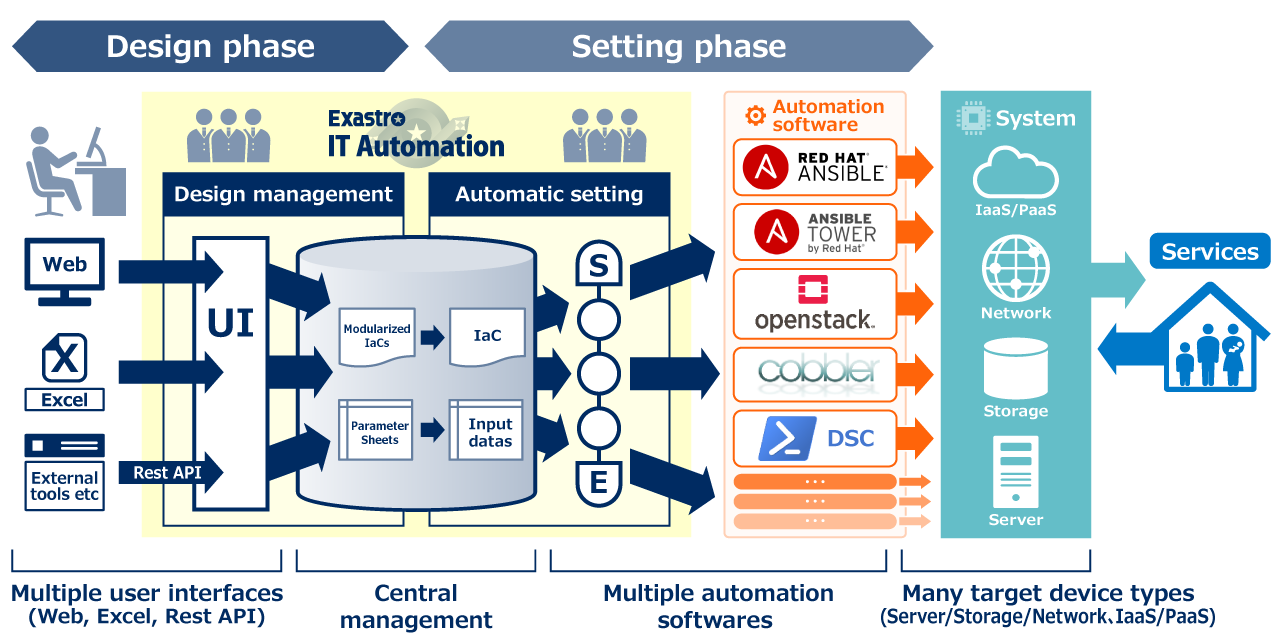
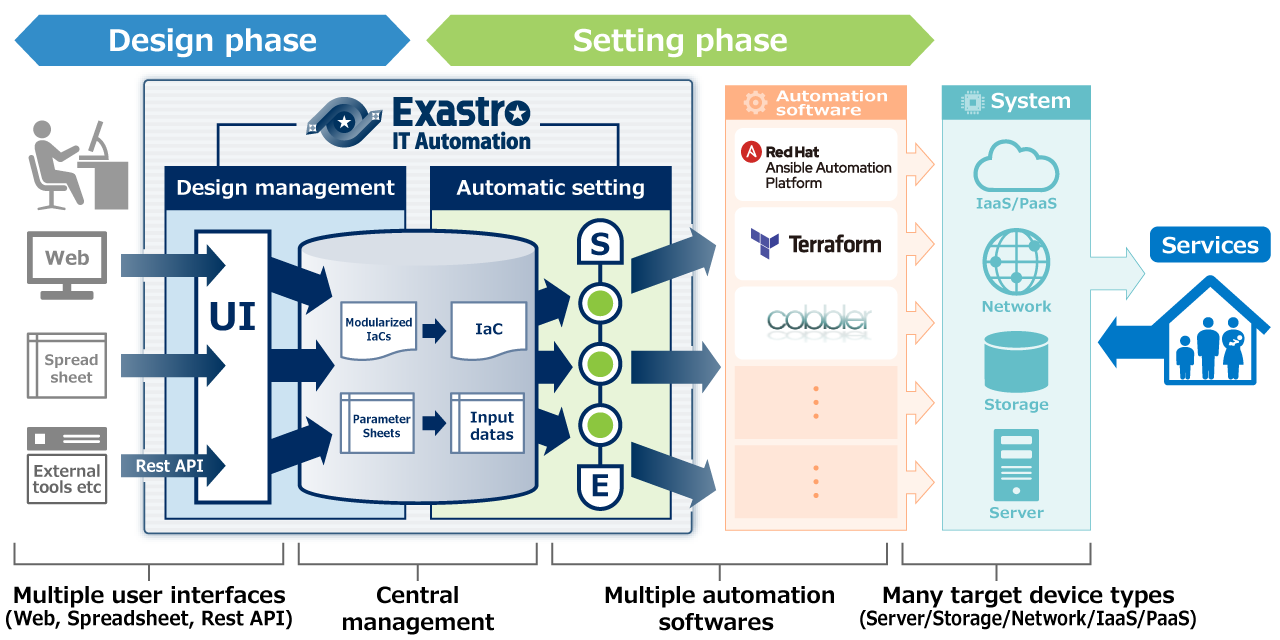
Update overview.

diff --git a/overview.html b/overview.html
@@ -172,8 +172,8 @@ Overview</h1>
     <h3 id="feature1" class="toggleHeading">Multiple user interfaces &amp; Role Base Access Control</h3>
     
     <div class="toggleText">
-      <div class="rightImage image25"><img src="./asset/img/en_system_management.png" alt="3 types of Interfaces (Web, Excel, and Rest API)"></div>
-      <p>User operations can be executed by 3 types of Interfaces (Web, Excel, and Rest API). ITA also records operation information from any Interface such as “who did it, when, what?”</p>
+      <div class="rightImage image25"><img src="./asset/img/en_system_management.png" alt="3 types of Interfaces (Web, Spreadsheet, and Rest API)"></div>
+      <p>User operations can be executed by 3 types of Interfaces (Web, Spreadsheet, and Rest API). ITA also records operation information from any Interface such as “who did it, when, what?”</p>
       <hr>
       <div class="rightImage"><dl class="image"><dt>Example of RBAC</dt><dd><span class="loupe touch"><img src="../it-automation-docs/asset/img/rbac_image_en.png" alt="Example of RBAC"></span></dd><dd class="note">*User 1 has both "Can perform maintenance" and "View only" permissions for Menu C but "Can perform maintenance" has higher priority.</dd></dl></div>
       <p>With role-based access control (RBAC), user can define roles such as developer, operator, users, and control what each role can do such as view only, update, execute.</p>

diff --git a/overview_ja.html b/overview_ja.html
@@ -173,7 +173,7 @@ Overview</h1>
     
     <div class="toggleText">
       <div class="rightImage image25"><img src="./asset/img/system_management.png" alt="マルチインターフェース"></div>
-      <p>ユーザ操作を3種類の<em>I/F（Web, Excel, Rest API）</em>から実行できます。またどのI/Fからの操作でも<em>「誰が・いつ・何をしたか？」を記録</em>します。</p>
+      <p>ユーザ操作を3種類の<em>I/F（Web, Spreadsheet, Rest API）</em>から実行できます。またどのI/Fからの操作でも<em>「誰が・いつ・何をしたか？」を記録</em>します。</p>
       <hr>
       <div class="rightImage"><dl class="image"><dt>RBACの例</dt><dd><span class="loupe touch"><img src="../it-automation-docs/asset/img/rbac_image.png" alt="RBACの例"></span></dd><dd class="note">※ユーザ1は、メニューCに対して『メンテナンス可』と『閲覧のみ』両方の権限がありますが、『メンテナンス可』の権限が優先されます。</dd></dl></div>
       <p>RBAC（Role-based access control）を備えており、開発者、作業者、運用者といった役割りを定義でき、<em>その役割りごとに出来ること（参照のみ、更新、実行）を制御</em>できます。</p>
